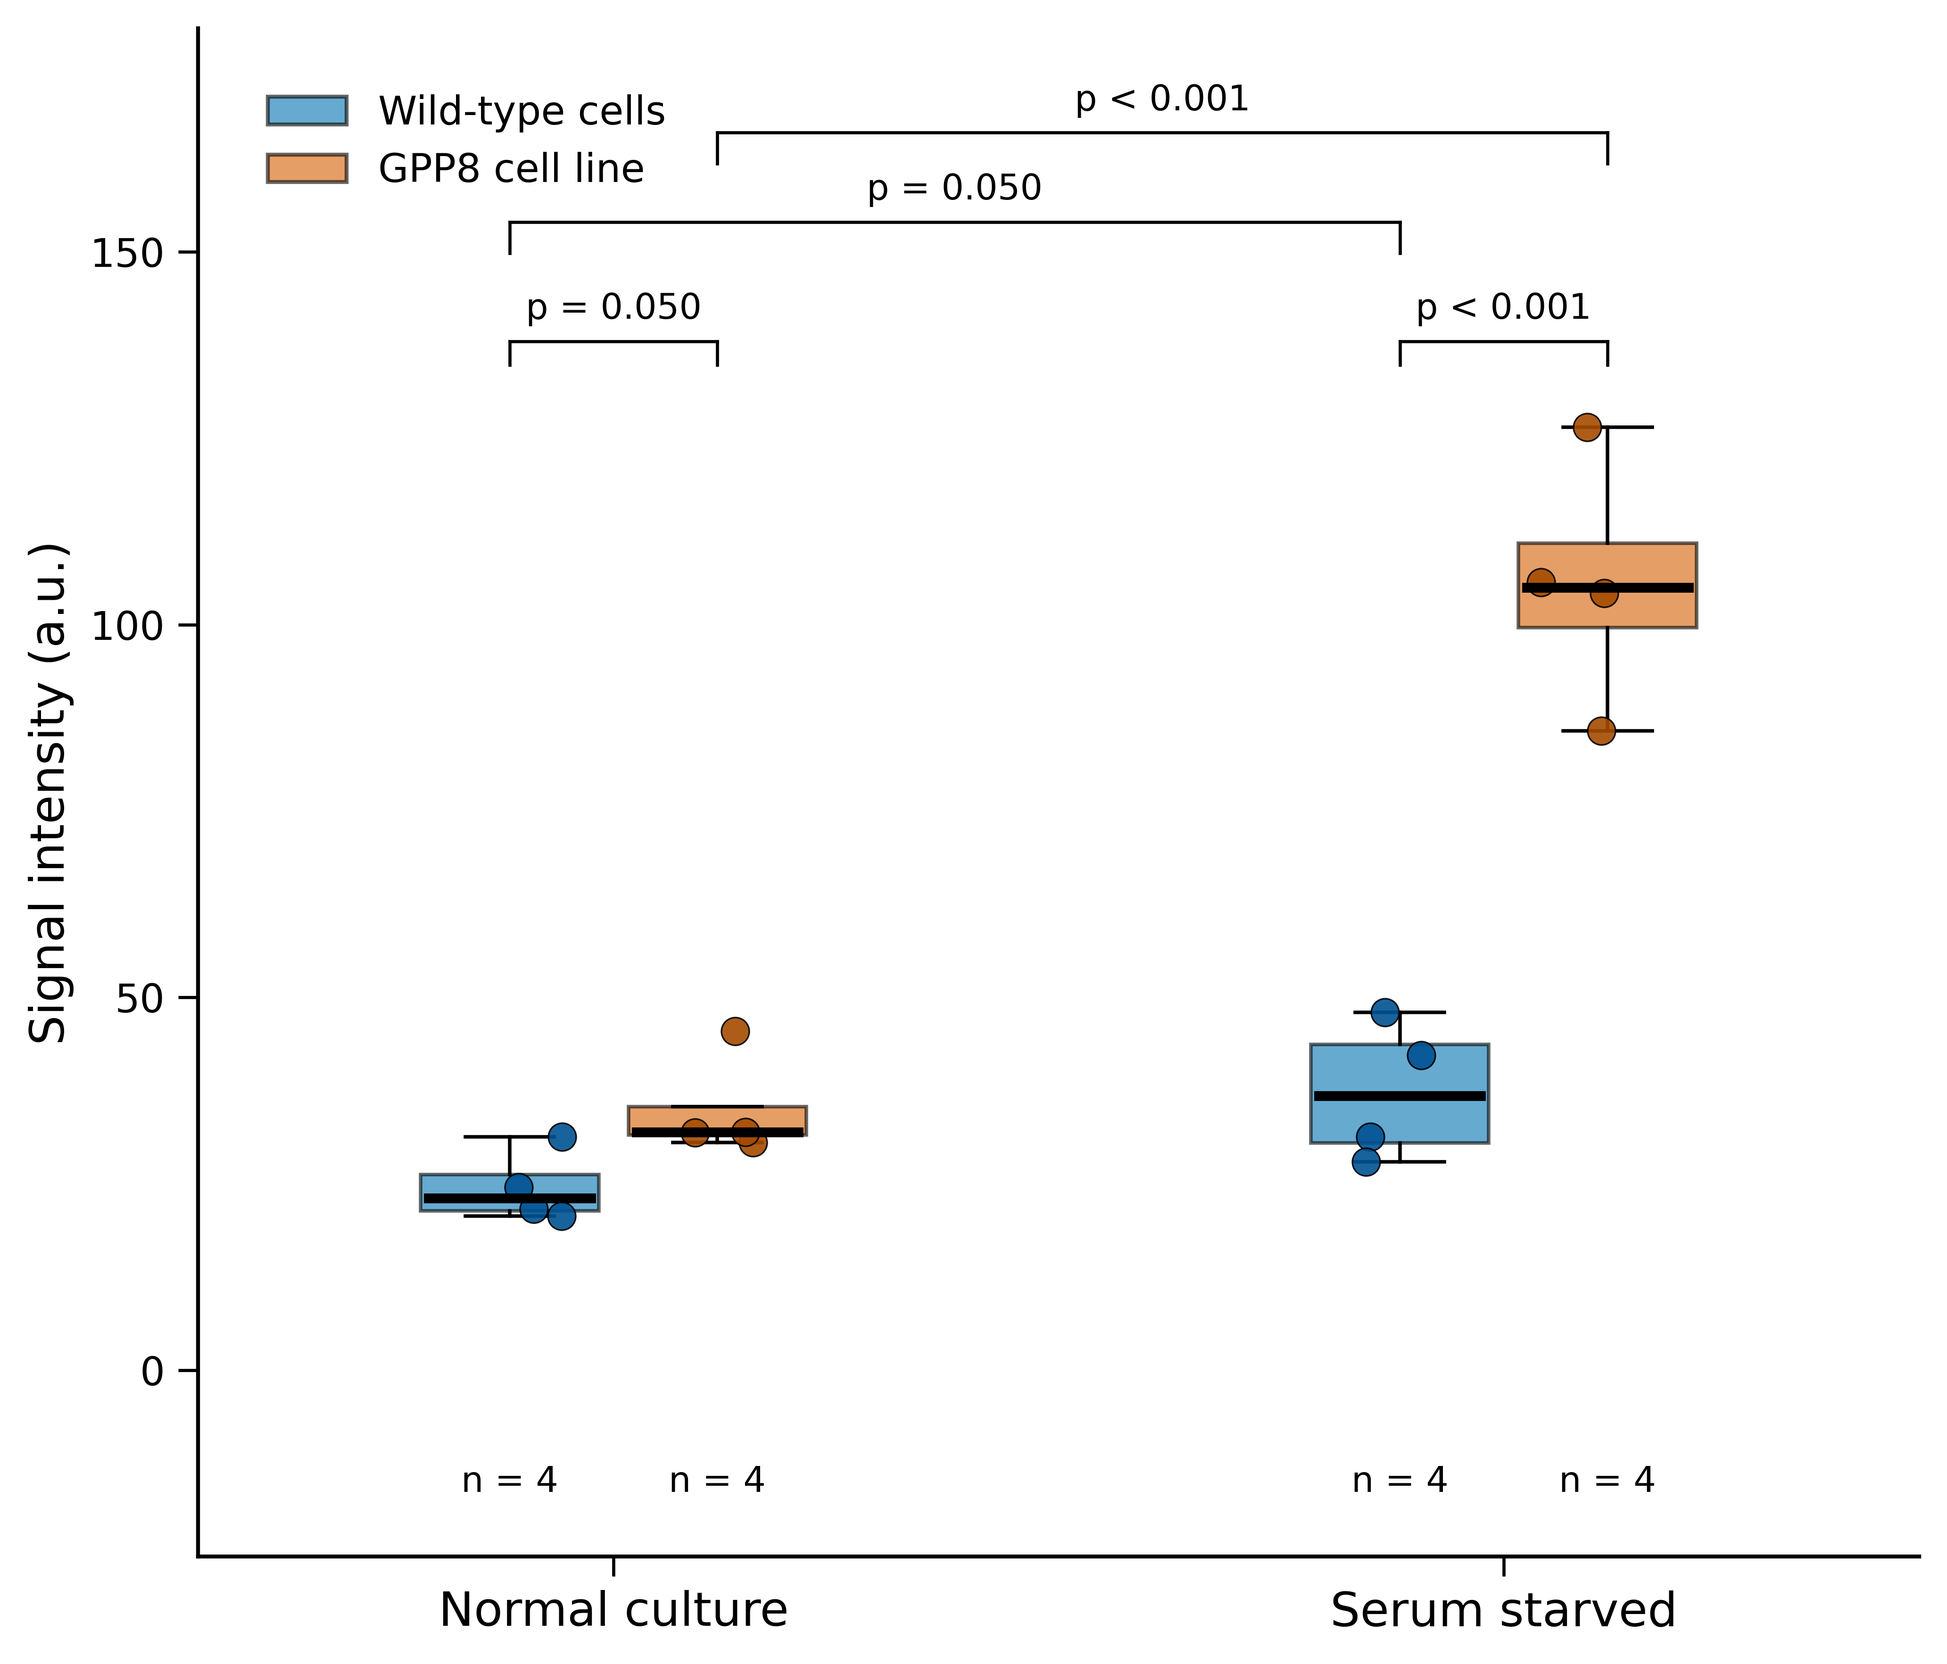
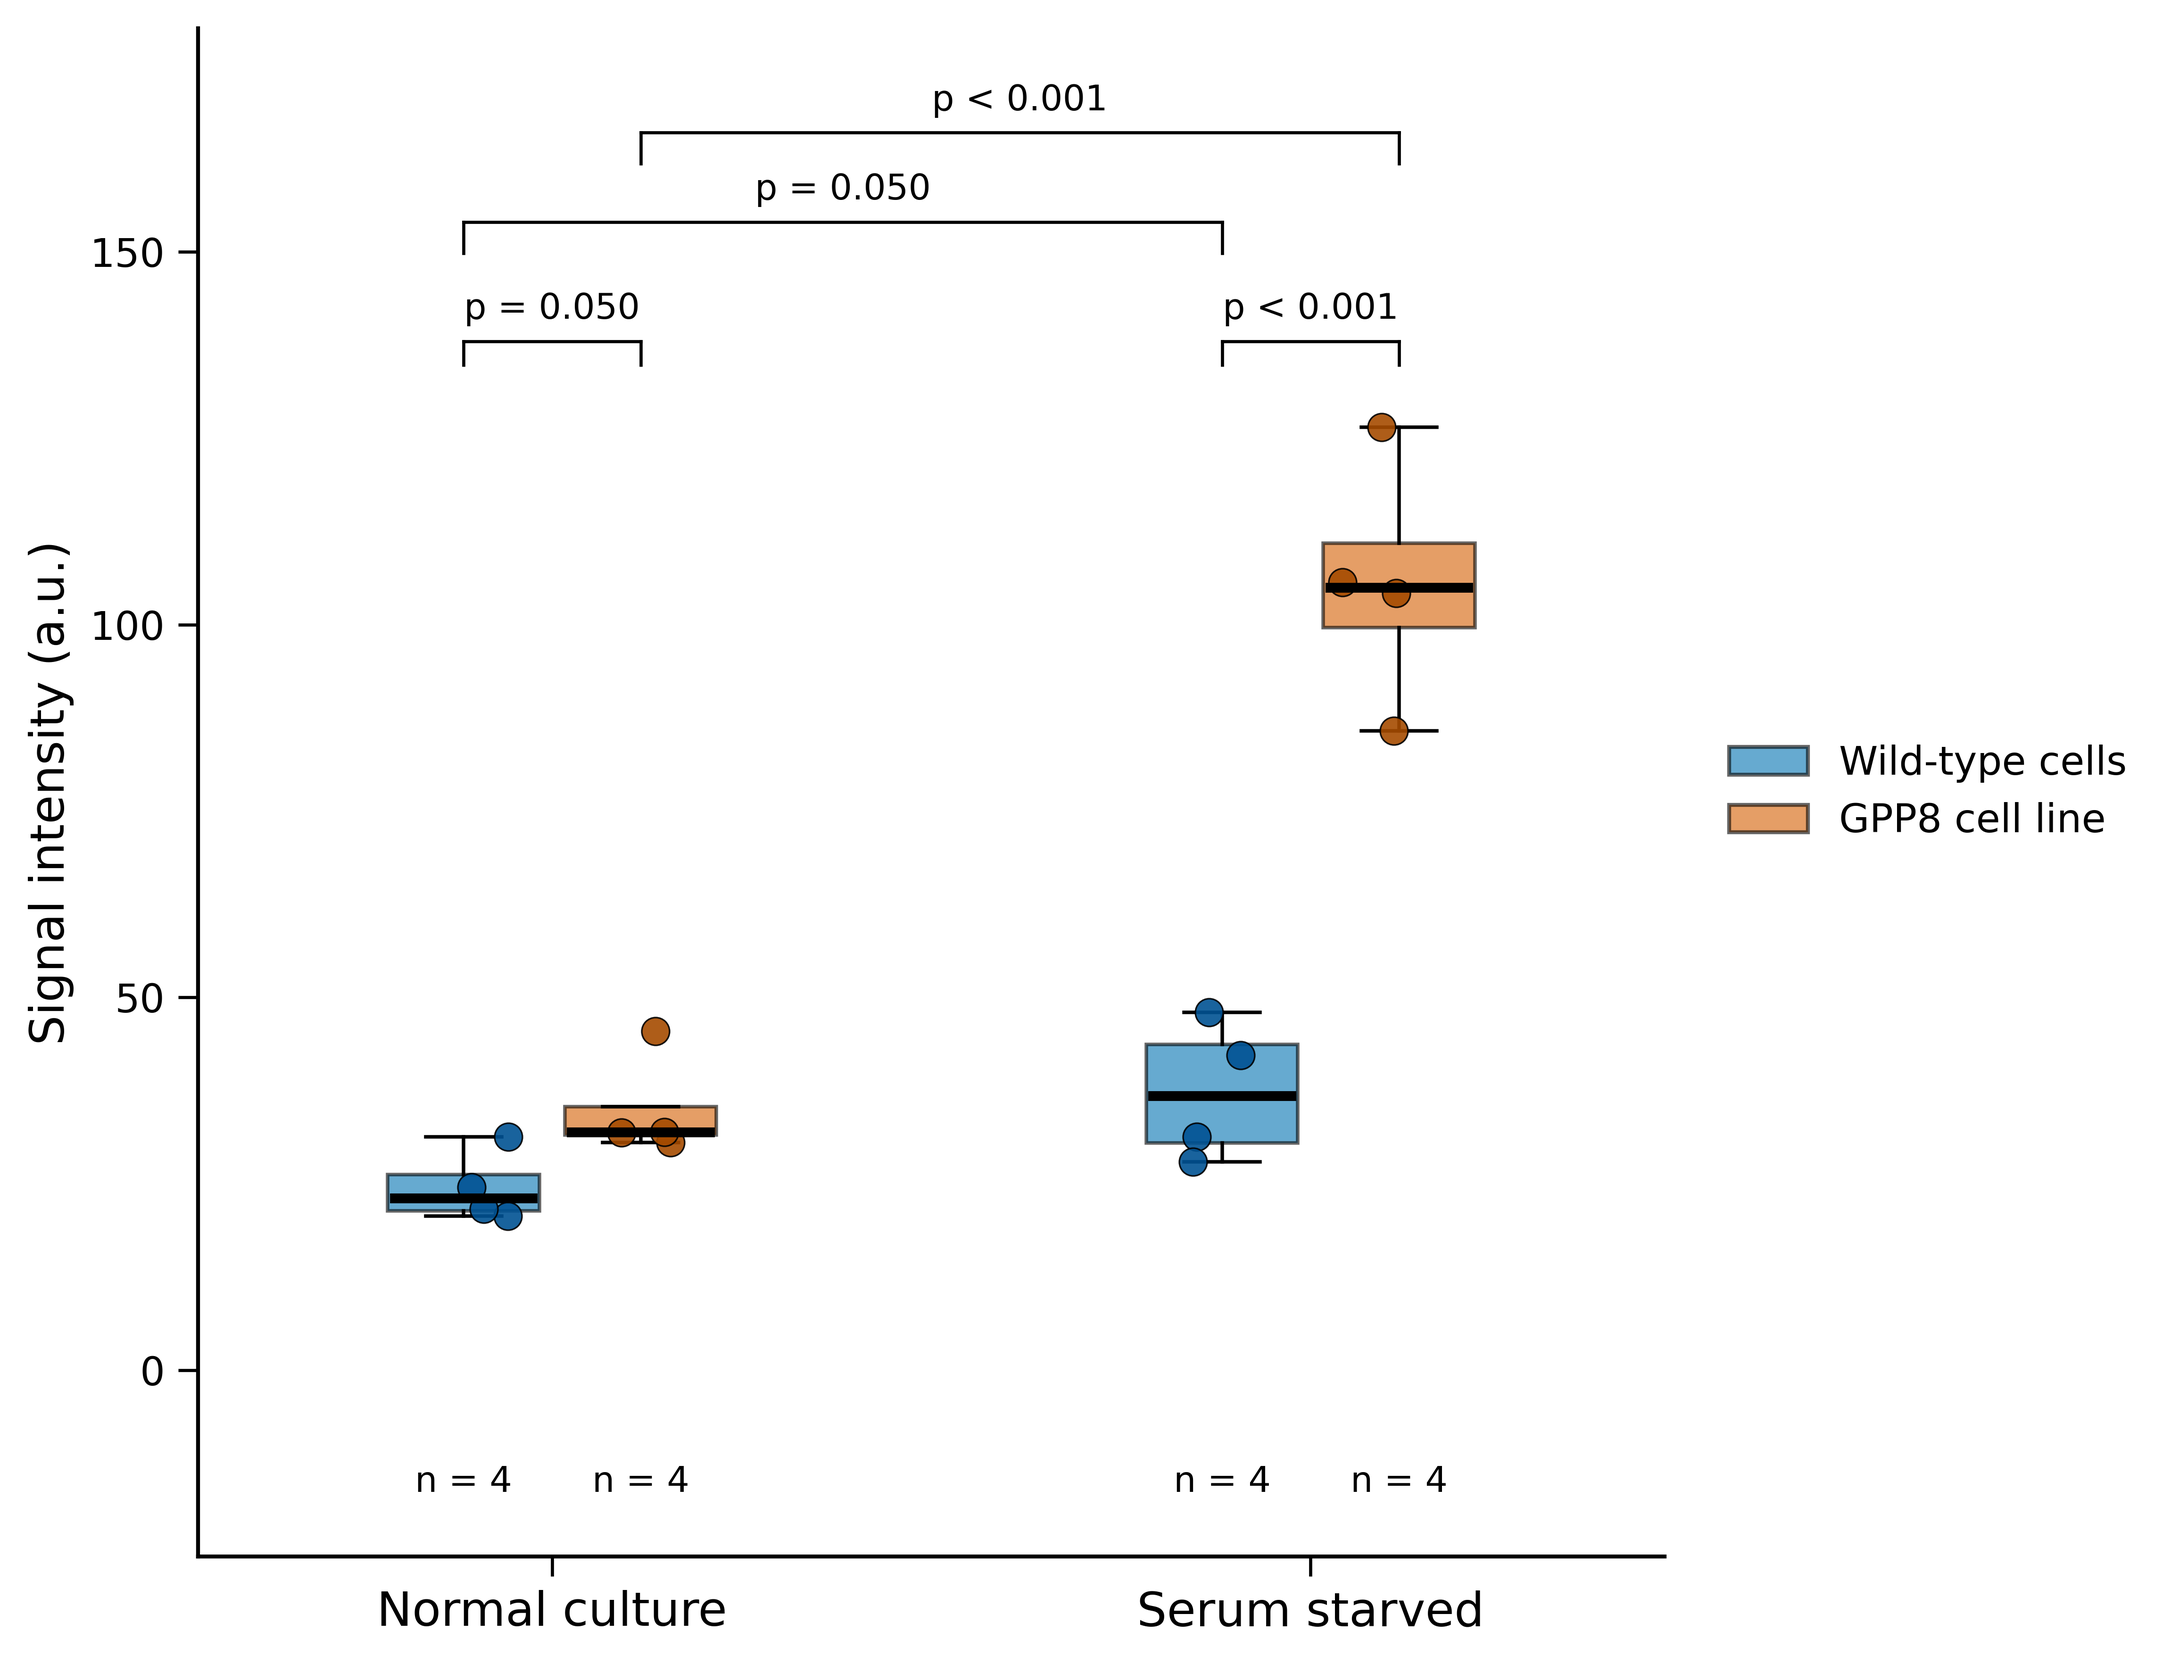
update python boxplot

diff --git a/Computational_Biology_projects/Publication_ready_figures/boxplot_example_2.py b/Computational_Biology_projects/Publication_ready_figures/boxplot_example_2.py
@@ -1,3 +1,6 @@
+#'──────────────────────────────────────────────────────────────
+# Packages ----
+#'──────────────────────────────────────────────────────────────
 import numpy as np
 import pandas as pd
 import matplotlib.pyplot as plt
@@ -6,22 +9,22 @@ from scipy import stats
 from matplotlib.patches import Rectangle
 import matplotlib.patches as mpatches
 
-# Set random seed for reproducibility
+#'──────────────────────────────────────────────────────────────
+# Data generation ----
+#'──────────────────────────────────────────────────────────────
 np.random.seed(123)
 
-# Create example data
 data = pd.DataFrame({
     'condition': ['Serum starved']*8 + ['Normal culture']*8,
     'cell_type': ['Wild-type cells']*4 + ['GPP8 cell line']*4 + ['Wild-type cells']*4 + ['GPP8 cell line']*4,
     'signal': np.concatenate([
-        np.random.normal(40, 8, 4),    # Serum starved, Wild-type
-        np.random.normal(110, 10, 4),  # Serum starved, GPP8
-        np.random.normal(25, 5, 4),    # Normal culture, Wild-type
-        np.random.normal(35, 7, 4)     # Normal culture, GPP8
+        np.random.normal(40, 8, 4),
+        np.random.normal(110, 10, 4),
+        np.random.normal(25, 5, 4),
+        np.random.normal(35, 7, 4)
     ])
 })
 
-# Convert to categorical with specific order
 data['condition'] = pd.Categorical(data['condition'], 
                                    categories=['Normal culture', 'Serum starved'], 
                                    ordered=True)
@@ -29,22 +32,23 @@ data['cell_type'] = pd.Categorical(data['cell_type'],
                                    categories=['Wild-type cells', 'GPP8 cell line'], 
                                    ordered=True)
 
-# Calculate sample sizes
 n_df = data.groupby(['condition', 'cell_type']).size().reset_index(name='n')
 
-# Set up the figure
+#'──────────────────────────────────────────────────────────────
+# Plot setup ----
+#'──────────────────────────────────────────────────────────────
 fig, ax = plt.subplots(figsize=(7, 6), dpi=100)
 
-# Define colors
 colors = {'Wild-type cells': '#0072B2', 'GPP8 cell line': '#D55E00'}
 edge_colors = {'Wild-type cells': '#005293', 'GPP8 cell line': '#A54B00'}
 
-# Create positions for dodge with more spacing
-positions = np.array([0, 1.5])  # Increased spacing between conditions
-width = 0.3  # Slightly narrower boxes
-dodge = 0.35  # Increased dodge for more separation
+positions = np.array([0, 1.5])
+width = 0.3
+dodge = 0.35
 
-# Plot boxplots
+#'──────────────────────────────────────────────────────────────
+# Boxplot data assembly ----
+#'──────────────────────────────────────────────────────────────
 box_data = []
 positions_list = []
 for i, (pos, condition) in enumerate(zip(positions, ['Normal culture', 'Serum starved'])):
@@ -53,22 +57,25 @@ for i, (pos, condition) in enumerate(zip(positions, ['Normal culture', 'Serum st
         box_data.append(subset['signal'].values)
         positions_list.append(pos + (j - 0.5) * dodge)
 
-# Create boxplots
+#'──────────────────────────────────────────────────────────────
+# Boxplot rendering ----
+#'──────────────────────────────────────────────────────────────
 bp = ax.boxplot(box_data, positions=positions_list, widths=width, 
                 patch_artist=True, showfliers=False,
                 boxprops=dict(linewidth=0.9),
                 whiskerprops=dict(linewidth=0.9),
                 capprops=dict(linewidth=0.9),
-                medianprops=dict(linewidth=0, color='none'))  # Hide default median line
+                medianprops=dict(linewidth=0, color='none'))
 
-# Color the boxes
 for i, patch in enumerate(bp['boxes']):
     cell_type = 'Wild-type cells' if i % 2 == 0 else 'GPP8 cell line'
     patch.set_facecolor(colors[cell_type])
     patch.set_alpha(0.6)
     patch.set_edgecolor('black')
 
-# Add jittered points
+#'──────────────────────────────────────────────────────────────
+# Jittered data points ----
+#'──────────────────────────────────────────────────────────────
 for i, (pos, condition) in enumerate(zip(positions, ['Normal culture', 'Serum starved'])):
     for j, cell_type in enumerate(['Wild-type cells', 'GPP8 cell line']):
         subset = data[(data['condition'] == condition) & (data['cell_type'] == cell_type)]
@@ -78,60 +85,56 @@ for i, (pos, condition) in enumerate(zip(positions, ['Normal culture', 'Serum st
                   color=edge_colors[cell_type], s=50, alpha=0.9, 
                   edgecolors='black', linewidths=0.4, zorder=3)
 
-# Add median emphasis (horizontal bars)
+#'──────────────────────────────────────────────────────────────
+# Median bars ----
+#'──────────────────────────────────────────────────────────────
 for i, box_d in enumerate(box_data):
     median_val = np.median(box_d)
     x_pos = positions_list[i]
     ax.plot([x_pos - width/2.2, x_pos + width/2.2], [median_val, median_val], 
             'k-', linewidth=2.5, zorder=4)
 
-# Add sample size annotations
+#'──────────────────────────────────────────────────────────────
+# Sample size annotations ----
+#'──────────────────────────────────────────────────────────────
 for i, (pos, condition) in enumerate(zip(positions, ['Normal culture', 'Serum starved'])):
     for j, cell_type in enumerate(['Wild-type cells', 'GPP8 cell line']):
         n = n_df[(n_df['condition'] == condition) & (n_df['cell_type'] == cell_type)]['n'].values[0]
         x_pos = pos + (j - 0.5) * dodge
         ax.text(x_pos, -15, f'n = {n}', ha='center', va='center', fontsize=9)
 
-# Statistical comparisons with better positioning
+#'──────────────────────────────────────────────────────────────
+# Statistical annotations ----
+#'──────────────────────────────────────────────────────────────
 def add_stat_annotation(ax, x1, x2, y, h, text='p < 0.05', tip_length=0.03):
-    """Add statistical comparison brackets with tips"""
-    # Draw bracket with small tips
     ax.plot([x1, x1], [y-tip_length*5, y+h], 'k-', linewidth=0.8)
     ax.plot([x1, x2], [y+h, y+h], 'k-', linewidth=0.8)
     ax.plot([x2, x2], [y+h, y-tip_length*5], 'k-', linewidth=0.8)
     ax.text((x1+x2)/2, y+h+2, text, ha='center', va='bottom', fontsize=9)
 
-# Get data ranges for positioning brackets
-y_max = 130  # Fixed position for better control
-
-# Comparison 1: Between cell types within each condition (lower brackets)
+y_max = 130
 y_start1 = y_max + 5
 
-# Normal culture comparison
 normal_wt = data[(data['condition'] == 'Normal culture') & (data['cell_type'] == 'Wild-type cells')]['signal']
 normal_gpp8 = data[(data['condition'] == 'Normal culture') & (data['cell_type'] == 'GPP8 cell line')]['signal']
 _, p_normal = stats.ttest_ind(normal_wt, normal_gpp8)
 p_text_normal = f'p = {p_normal:.3f}' if p_normal >= 0.001 else 'p < 0.001'
 add_stat_annotation(ax, positions[0] - 0.5*dodge, positions[0] + 0.5*dodge, y_start1, 3, p_text_normal)
 
-# Serum starved comparison  
 serum_wt = data[(data['condition'] == 'Serum starved') & (data['cell_type'] == 'Wild-type cells')]['signal']
 serum_gpp8 = data[(data['condition'] == 'Serum starved') & (data['cell_type'] == 'GPP8 cell line')]['signal']
 _, p_serum = stats.ttest_ind(serum_wt, serum_gpp8)
 p_text_serum = f'p = {p_serum:.3f}' if p_serum >= 0.001 else 'p < 0.001'
 add_stat_annotation(ax, positions[1] - 0.5*dodge, positions[1] + 0.5*dodge, y_start1, 3, p_text_serum)
 
-# Comparison 2: Between conditions for each cell type (upper brackets)
 y_start2 = y_start1 + 15
 
-# Wild-type comparison
 wt_normal = data[(data['condition'] == 'Normal culture') & (data['cell_type'] == 'Wild-type cells')]['signal']
 wt_serum = data[(data['condition'] == 'Serum starved') & (data['cell_type'] == 'Wild-type cells')]['signal']
 _, p_wt = stats.ttest_ind(wt_normal, wt_serum)
 p_text_wt = f'p = {p_wt:.3f}' if p_wt >= 0.001 else 'p < 0.001'
 add_stat_annotation(ax, positions[0] - 0.5*dodge, positions[1] - 0.5*dodge, y_start2, 4, p_text_wt)
 
-# GPP8 comparison (highest bracket)
 y_start3 = y_start2 + 12
 gpp8_normal = data[(data['condition'] == 'Normal culture') & (data['cell_type'] == 'GPP8 cell line')]['signal']
 gpp8_serum = data[(data['condition'] == 'Serum starved') & (data['cell_type'] == 'GPP8 cell line')]['signal']
@@ -139,39 +142,38 @@ _, p_gpp8 = stats.ttest_ind(gpp8_normal, gpp8_serum)
 p_text_gpp8 = f'p = {p_gpp8:.3f}' if p_gpp8 >= 0.001 else 'p < 0.001'
 add_stat_annotation(ax, positions[0] + 0.5*dodge, positions[1] + 0.5*dodge, y_start3, 4, p_text_gpp8)
 
-# Styling
+#'──────────────────────────────────────────────────────────────
+# Plot styling ----
+#'──────────────────────────────────────────────────────────────
 ax.set_ylim(-25, 180)
 ax.set_yticks(range(0, 151, 50))
 ax.set_ylabel('Signal intensity (a.u.)', fontsize=12)
 ax.set_xticks(positions)
 ax.set_xticklabels(['Normal culture', 'Serum starved'], fontsize=12)
 
-# Remove top and right spines
 ax.spines['top'].set_visible(False)
 ax.spines['right'].set_visible(False)
 ax.spines['left'].set_linewidth(1)
 ax.spines['bottom'].set_linewidth(1)
 ax.tick_params(width=0.8, length=5)
-
-# Make tick labels black
 ax.tick_params(axis='both', colors='black')
 
-# Add legend in upper left corner to avoid collision with stats
 legend_elements = [mpatches.Patch(facecolor=colors['Wild-type cells'], 
                                  alpha=0.6, edgecolor='black', 
                                  label='Wild-type cells'),
                   mpatches.Patch(facecolor=colors['GPP8 cell line'], 
                                  alpha=0.6, edgecolor='black', 
                                  label='GPP8 cell line')]
-ax.legend(handles=legend_elements, loc='upper left', 
-          bbox_to_anchor=(0.02, 0.98), frameon=False)
+ax.legend(handles=legend_elements, loc='center left', 
+          bbox_to_anchor=(1.02, 0.5), frameon=False)
 
-# Set x-axis limits to center the plot
 ax.set_xlim(-0.7, 2.2)
 
-# Adjust layout
+#'──────────────────────────────────────────────────────────────
+# Output ----
+#'──────────────────────────────────────────────────────────────
 plt.tight_layout()
-
-# Save figure
+plt.subplots_adjust(right=0.85)
 plt.savefig('boxplot_publication.png', dpi=600, bbox_inches='tight', facecolor='white')
 plt.show()
+
